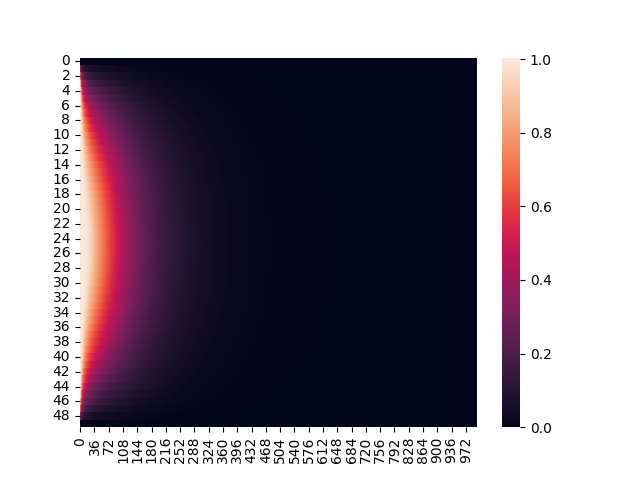
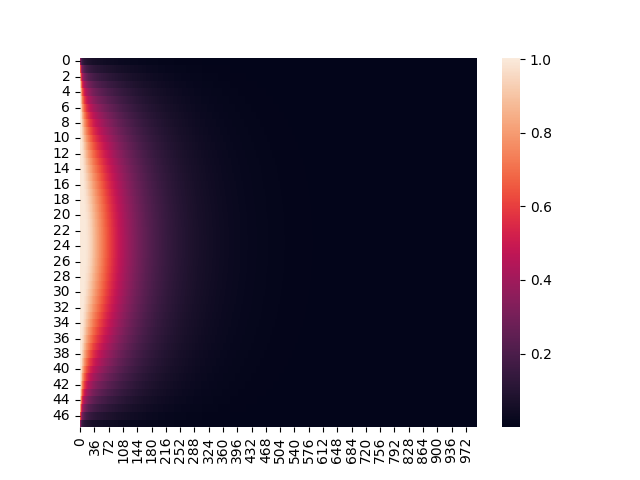
Graphics revision

Changed region(s): [[0.0625, 0.125, 0.1562, 0.9062], [0.8125, 0.875, 0.875, 0.9062]]

diff --git a/graphics/visualisation.py b/graphics/visualisation.py
@@ -1,40 +1,97 @@
+from configuration import storage_path
+import numpy as np
+
 from matplotlib import pyplot
 from seaborn import heatmap
 from celluloid import Camera
 
-import numpy as np
+import errno
+import os
 
 
-def generate_gif(matrix: np.ndarray, n: int, h: int) -> None:
-    fig, ax = pyplot.subplots()
-    camera = Camera(fig)
-    test_E = matrix.T[::-1]
-    x_vec = range(0, n)
-    for t in range(h - 1, 0, -1):
-        ax.set(xlabel="n", ylabel="temperature", title=f"Numerical Solution, dt=1/{h - 1}, dx=1/{n - 1}")
-        pyplot.xlim([0, n])
-        pyplot.ylim([0, 1])
-        pyplot.title = f"Numerical Solution, dt=1/{h - 1}, dx=1/{n - 1}"
-        pyplot.plot(x_vec, test_E[t], 'black')
-        camera.snap()
+class Graphics:
+    def __init__(self):
+        self.__path = storage_path
 
-    animation = camera.animate()
-    animation.save("./plots/heat_transfer.gif")
+        self.check_storage()
 
+    def _storage_exists(self) -> bool:
+        if os.path.exists(self.__path):
+            return True
 
-def generate_graphs(partition: np.ndarray, U: np.ndarray, E: np.ndarray, n: int, h: int):
-    fig, ax = pyplot.subplots()
-    ax.plot(partition, U[:, -1], label='Numerical Solution', linewidth=6)
-    ax.plot(partition, E[:, -1], label='Analytical Solution', linewidth=3, linestyle='dashed')
-    ax.set(xlabel="x", ylabel="Heat", title=f"Solution at t=1. dt=1/{h - 1}, dx=1/{n - 1}")
-    # ax.legend()
-    # ax.grid()
-    fig.savefig("./plots/numeric-exact-difference.png")
-    pyplot.show()
+        return False
 
+    def _create_storage(self) -> None:
+        try:
+            os.makedirs(os.path.dirname(self.__path))
+        except OSError as exc:
+            if exc.errno != errno.EEXIST:
+                raise
 
-def generate_heatmap(solution: np.ndarray, name: str) -> None:
-    heatmap(solution)
-    pyplot.savefig("./plots/" + name + ".png")
-    pyplot.plot()
-    pyplot.clf()
+    def check_storage(self) -> None:
+        if not self._storage_exists():
+            self._create_storage()
+
+    def make_heatmap(self, solution: np.ndarray, name: str) -> None:
+        heatmap(solution)
+
+        self.check_storage()
+        pyplot.savefig(self.__path + name + ".png")
+
+        pyplot.plot()
+        pyplot.clf()
+
+    def make_gif(self, matrix: np.ndarray, space_steps: int, time_steps: int) -> None:
+        self.check_storage()
+
+        fig, ax = pyplot.subplots()
+        camera = Camera(fig)
+        test_E = matrix.T[::-1]
+        x_vec = range(0, space_steps)
+
+        for t in range(time_steps - 1, 0, -1):
+            ax.set(xlabel="n", ylabel="temperature", title=f"Numerical Solution, dt=1/{time_steps}, dx=1/{space_steps}")
+            pyplot.xlim([0, space_steps])
+            pyplot.ylim([0, 1])
+            pyplot.title = f"Numerical Solution, dt=1/{time_steps}, dx=1/{space_steps}"
+            pyplot.plot(x_vec, test_E[t], 'black')
+            camera.snap()
+
+        animation = camera.animate()
+        animation.save(self.__path + "heat_transfer.gif")
+        pyplot.clf()
+
+    def make_graphs(self, partition: np.ndarray, numeric: np.ndarray, exact: np.ndarray,
+                    space_steps: int, time_steps: int) -> None:
+        self.check_storage()
+
+        fig, ax = pyplot.subplots()
+        ax.plot(partition, numeric[:, -1], label='Numerical Solution', linewidth=6)
+        ax.plot(partition, exact[:, -1], label='Analytical Solution', linewidth=3, linestyle='dashed')
+        ax.set(xlabel="x", ylabel="temperature",
+               title=f"Numeric and Analytical solutions. dt=1/{time_steps}, dx=1/{space_steps}")
+        ax.legend()
+
+        fig.savefig(self.__path + "numeric_and_exact.png")
+        pyplot.show()
+        pyplot.clf()
+
+    def make_diff(self, partition: np.ndarray, numeric: np.ndarray, exact: np.ndarray,
+                  space_steps: int, time_steps: int) -> None:
+
+        self.check_storage()
+
+        fig, ax = pyplot.subplots()
+        diff = np.zeros(exact.shape)
+
+        for i in range(diff.shape[0]):
+            for j in range(diff.shape[1]):
+                diff[i, j] = abs(numeric[i, j] - exact[i, j])
+
+        ax.plot(partition, diff[:, -1])
+        ax.set(xlabel="x", ylabel="temperature",
+               title=f"Numeric/Analytical difference dt=1/{time_steps}, dx=1/{space_steps}")
+
+        fig.savefig("./plots/numeric_exact_difference.png")
+        pyplot.show()
+        pyplot.clf()

diff --git a/main.py b/main.py
@@ -1,29 +1,31 @@
 import numpy as np
 
 from diff import *
-from graphics import generate_graphs, generate_gif, generate_heatmap
+from graphics import Graphics
 from solvers import EulerMethod, AnalyticalSolution
 from configuration import space_conditions, time_conditions, system_conditions
 
 
 def main():
 
-    domain = DiffSystem(system_conditions, space_conditions, time_conditions)
+    equation_system = DiffSystem(system_conditions, space_conditions, time_conditions)
+    graphs = Graphics()
 
     numeric = EulerMethod()
     exact = AnalyticalSolution()
 
-    U = numeric.solve(domain)
+    U = numeric.solve(equation_system)
 
-    E = exact.solve(domain)
+    E = exact.solve(equation_system)
 
-    print("L2-norm difference between numeric and analytical solutions: ", np.linalg.norm(E - U) / E.size)
+    print("L2-norm mean difference between numeric and analytical solutions: ", np.linalg.norm(E - U) / E.size)
 
-    generate_heatmap(U[1: -1], "numeric")
-    generate_heatmap(E, "analytical")
+    graphs.make_heatmap(U[1: -1], "numeric")
+    graphs.make_heatmap(E[1: -1], "analytical")
 
-    generate_graphs(domain.get_space(), U, E, space_conditions["steps"], time_conditions["steps"])
-    generate_gif(U, space_conditions["steps"], time_conditions["steps"])
+    graphs.make_graphs(equation_system.get_space(), U, E, space_conditions["steps"], time_conditions["steps"])
+    graphs.make_diff(equation_system.get_space(), U, E, space_conditions["steps"], time_conditions["steps"])
+    graphs.make_gif(U, space_conditions["steps"], time_conditions["steps"])
 
 
 if __name__ == '__main__':

diff --git a/configuration/config.py b/configuration/config.py
@@ -2,6 +2,9 @@ from math import pi, exp, sin
 import numpy as np
 
 
+# path to the directory, where the graphic plots will be saved
+storage_path = "./plots/"
+
 # space mesh conditions
 space_conditions = {
     "interval": (0, 1),    # space partition interval borders
@@ -52,4 +55,3 @@ def u(x: float, t: float, count = 1000) -> float:
                   * sin(i * pi * x / right_border) * exp(-t * (i * pi / right_border) ** 2)
 
     return result
-
